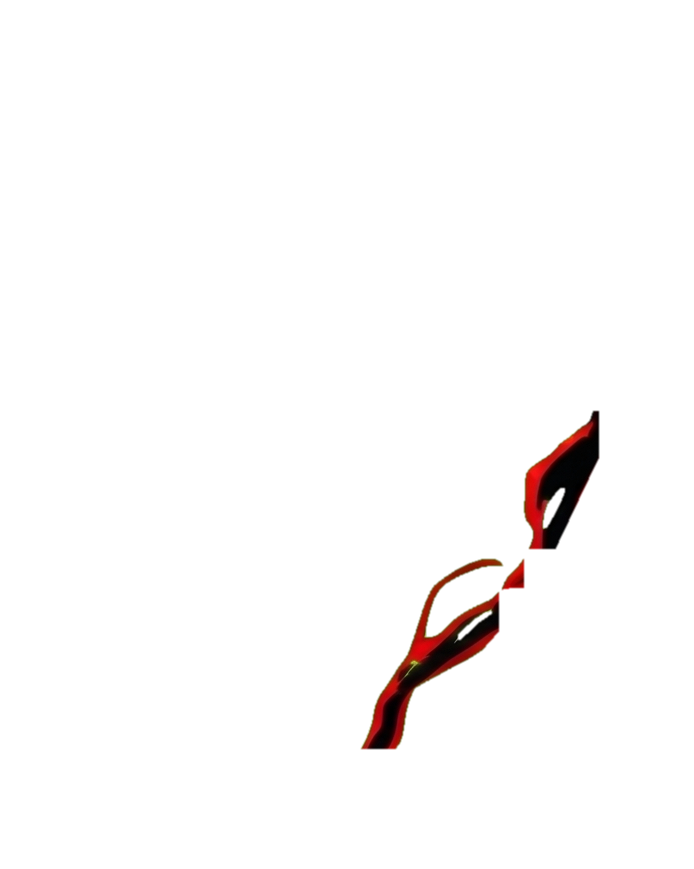
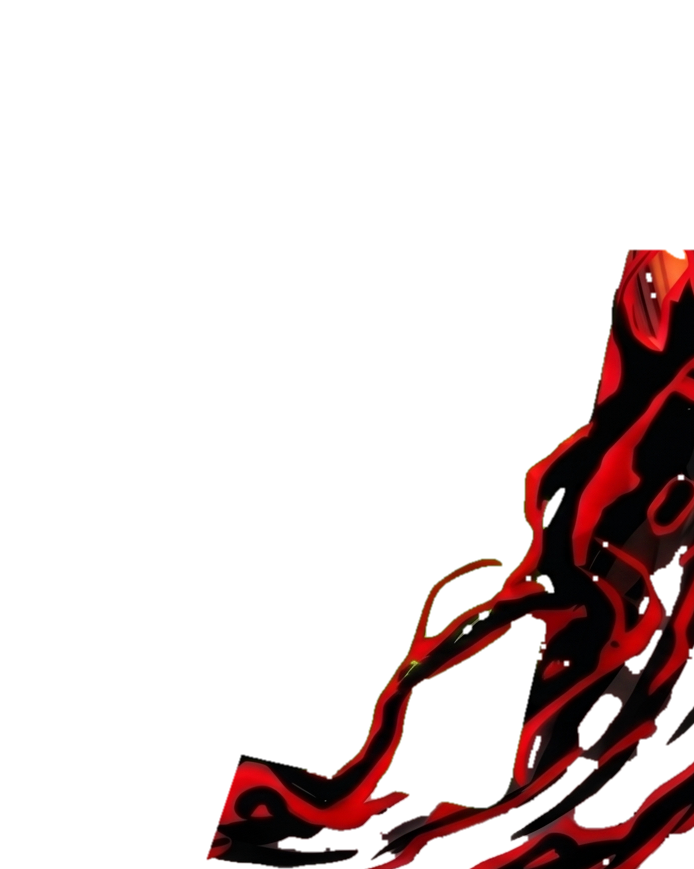
Gauntlet occluder v5: hand-traced lasso keeps whole tendril strokes (no radius chipping); orange thumb shading + maroon halo stay behind

Changed region(s): [[0.3026, 0.2796, 1.0, 1.0], [0.5749, 0.7768, 0.6354, 0.8389]]

diff --git a/gauntlet.html b/gauntlet.html
@@ -1,18 +1,18 @@
-<!DOCTYPE html>
+<!DOCTYPE html>
 <html lang="en">
 <head>
 <meta charset="UTF-8">
 <meta name="viewport" content="width=device-width, initial-scale=1.0">
-<title>Crowns — Gauntlet Stage (demo)</title>
+<title>Crowns â€” Gauntlet Stage (demo)</title>
 <link rel="icon" type="image/png" href="assets/pokex-ball-64.png">
 <style>
 /* ============================================================================
-   GAUNTLET STAGE — chroma-slot demo. One flat image, three layers:
+   GAUNTLET STAGE â€” chroma-slot demo. One flat image, three layers:
      1. the scene (green card visible underneath)
      2. the REAL Magic card, corner-pinned into the green card's oriented rect
-     3. the occluder cut (every non-green pixel inside the card region — the
+     3. the occluder cut (every non-green pixel inside the card region â€” the
         red-black tendrils + fingertip) so the energy passes IN FRONT of it.
-   Geometry measured by scripts (center 1384,865 · 466×668 · 12.28° in 2752×1536).
+   Geometry measured by scripts (center 1384,865 Â· 466Ã—668 Â· 12.28Â° in 2752Ã—1536).
    ============================================================================ */
 :root{--navy:#060c1e;--gold:#ffd24a;--dim:#90a6cc}
 *{margin:0;padding:0;box-sizing:border-box}
@@ -23,7 +23,7 @@ body{background:#05070f;color:#eaf2ff;font-family:'DM Sans',system-ui,sans-serif
 .stage{position:relative;aspect-ratio:2752/1536;height:100vh;min-width:100vw;flex:none}
 @media (min-aspect-ratio:2752/1536){ .stage{height:auto;width:100vw;min-height:100vh} }
 .stage > img.scene{position:absolute;inset:0;width:100%;height:100%;object-fit:fill;user-select:none;-webkit-user-drag:none}
-/* the live card — positioned in % of the stage so it scales with it */
+/* the live card â€” positioned in % of the stage so it scales with it */
 .cardslot{position:absolute;left:50.3052%;top:56.3264%;width:17.6200%;height:45.1950%;
   transform:translate(-50%,-50%) rotate(12.28deg);transform-style:preserve-3d;cursor:pointer;
   filter:drop-shadow(0 0 34px rgba(255,40,30,.45)) drop-shadow(0 14px 30px rgba(0,0,0,.5))}
@@ -61,7 +61,7 @@ body{background:#05070f;color:#eaf2ff;font-family:'DM Sans',system-ui,sans-serif
         </div>
         <span class="sheen" id="sheen"></span>
       </div>
-      <img class="occluder" src="assets/bg/gauntlet-occluder.png?v=4" alt="" draggable="false">
+      <img class="occluder" src="assets/bg/gauntlet-occluder.png?v=5" alt="" draggable="false">
     </div>
   </div>
 
@@ -80,7 +80,7 @@ body{background:#05070f;color:#eaf2ff;font-family:'DM Sans',system-ui,sans-serif
 <script>
 (() => {
   'use strict';
-  // the hand presents these — swap freely (Scryfall named API redirects to art)
+  // the hand presents these â€” swap freely (Scryfall named API redirects to art)
   const S = (q) => `https://api.scryfall.com/cards/named?format=image&version=large&fuzzy=${q}`;
   const CARDS = [
     { name: 'Sheoldred, the Apocalypse', src: S('sheoldred+the+apocalypse') },
@@ -99,7 +99,7 @@ body{background:#05070f;color:#eaf2ff;font-family:'DM Sans',system-ui,sans-serif
     i = (n + CARDS.length) % CARDS.length;
     const c = CARDS[i];
     if (!window.gsap) { art.src = c.src; cap.textContent = c.name; return; }
-    // quick half-flip out → swap → flip back in, then a sheen sweep sells the arrival
+    // quick half-flip out â†’ swap â†’ flip back in, then a sheen sweep sells the arrival
     gsap.to(flip, { rotateY: dir * 90, duration: 0.22, ease: 'power2.in', onComplete: () => {
       art.src = c.src; cap.textContent = c.name;
       gsap.fromTo(flip, { rotateY: -dir * 90 }, { rotateY: 0, duration: 0.34, ease: 'power3.out' });
@@ -116,7 +116,7 @@ body{background:#05070f;color:#eaf2ff;font-family:'DM Sans',system-ui,sans-serif
     // the card breathes in the grip + a slow ambient sheen every few seconds
     gsap.to(slot, { scale: 1.012, duration: 2.6, ease: 'sine.inOut', yoyo: true, repeat: -1 });
     gsap.fromTo(sheen, { backgroundPositionX: '-140%' }, { backgroundPositionX: '240%', duration: 1.6, ease: 'power1.inOut', repeat: -1, repeatDelay: 6, delay: 2 });
-    // cursor parallax: the card tilts in the hand (small — it must stay registered
+    // cursor parallax: the card tilts in the hand (small â€” it must stay registered
     // under the occluding tendrils), the whole stage leans a touch for depth
     addEventListener('pointermove', (e) => {
       const nx = e.clientX / innerWidth - 0.5, ny = e.clientY / innerHeight - 0.5;
